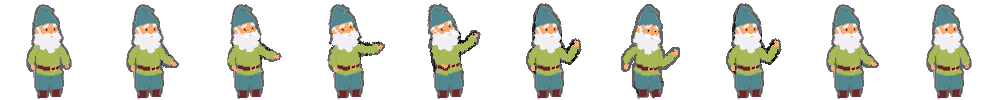
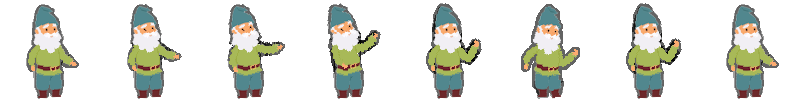
Collector. fall image with armor instead of weapon in air

diff --git a/src/gameApp/units/Unit.ts b/src/gameApp/units/Unit.ts
@@ -71,6 +71,7 @@ export class Unit extends UpgradebleObject {
 	protected readonly _runArmorAnimation: AnimationInfinite; //для апгрейда брони - анимация бега
 	protected readonly _joyArmorAnimation: Animation; //для апгрейда брони - анимация радости после завершения волны
 	protected readonly _attackArmorAnimation: AnimationInfinite; //для апгрейда брони - анимация атаки
+	protected readonly _fallArmorImage: HTMLImageElement;
 
 	static readonly heartImage: HTMLImageElement = new Image(); //картинка для анимации лечения
 	static readonly healingAnimationDurationMs: number = 1200; //продолжительность анимации лечения (миллисекунды)
@@ -93,7 +94,7 @@ export class Unit extends UpgradebleObject {
 	protected _attackLeftTimeMs: number; //оставшееся время до следующей атаки (миллисекунды)
 	protected _goal: AttackedObject|null; //цель (монстр) для атаки
 
-	protected imageWeapon: HTMLImageElement; //изображение оружия
+	protected imageWeapon: HTMLImageElement|ImageBitmap; //изображение оружия
 	protected _isDisplayWeaponInAir: boolean; //отображать оружие крутящуюся в воздухе?
 	protected _isDisplayWeaponInEarch: boolean; //отображать оружие воткнутую в землю?
 	protected _weaponRotateInAir: number; //угол вращения оружие в воздухе
@@ -176,6 +177,7 @@ export class Unit extends UpgradebleObject {
 		this._activeWaitingArmorAnimation = new AnimationInfinite(activeWaitingAnimation.frames, activeWaitingAnimation.durationMs); 
 		this._runArmorAnimation = new AnimationInfinite(runAnimation.frames, runAnimation.durationMs);
 		this._joyArmorAnimation = new Animation(joyAnimation.frames, joyAnimation.durationMs); 
+		this._fallArmorImage = new Image();
 
 
 		this._goal = null;
@@ -535,6 +537,7 @@ export class Unit extends UpgradebleObject {
 	{
 		if(this._isFall){
 			super.drawObject(drawsDiffMs, this._fallImage, isGameOver, invertSign, x, y, filter, isInvertAnimation);
+			super.drawObject(drawsDiffMs, this._fallArmorImage, isGameOver, invertSign, x, y, filter, isInvertAnimation);
 		}
 		else if(this._fallEndAnimation.leftTimeMs > 0){
 			super.drawObject(drawsDiffMs, this._fallEndAnimation, isGameOver, invertSign, x, y, filter, isInvertAnimation);

diff --git a/src/gameApp/units/Collector.ts b/src/gameApp/units/Collector.ts
@@ -54,6 +54,7 @@ import CollectorDefenseStartWoodArmorImage from '../../assets/img/units/collecto
 import CollectorPassiveWait1WoodArmorImage from '../../assets/img/units/collector/woodArmor/passiveWaiting.png'; 
 import CollectorRunWoodArmorImage from '../../assets/img/units/collector/woodArmor/run.png'; 
 import CollectorJoyWoodArmorImage from '../../assets/img/units/collector/woodArmor/joy.png'; 
+import CollectorFallWoodArmorImage from '../../assets/img/units/collector/woodArmor/fall.png'; 
 
 
 import CollectorFallEndWoodArmorImage from '../../assets/img/units/collector/woodArmor/passiveWaiting.png'; 
@@ -128,7 +129,7 @@ export class Collector extends Unit{
 			new Animation(6, 6 * 350, Collector.passiveWaitingImage), 			//startActiveWaitingAnimation
 			new AnimationInfinite(6, 6 * 350, Collector.passiveWaitingImage), 	//activeWaitingAnimation
 			new AnimationInfinite(4, 4 * 200, Collector.runImage),  		    //run animation
-			new Animation(10, 10 * 100, Collector.joyImage),  				    //joy animation
+			new Animation(8, 8 * 100, Collector.joyImage),  				    //joy animation
 			0, //rotateWeaponInEarch
 			Collector.name, 
 			Collector.imageHandler, 
@@ -225,6 +226,7 @@ export class Collector extends Unit{
 		this._fallEndArmorAnimation.image.src = CollectorFallEndWoodArmorImage;
 		this._runArmorAnimation.image.src = CollectorRunWoodArmorImage;
 		this._joyArmorAnimation.image.src = CollectorJoyWoodArmorImage;
+		this._fallArmorImage.src = CollectorFallWoodArmorImage;
 	}
 
 	improveSpeed(){
@@ -501,7 +503,15 @@ export class Collector extends Unit{
 
 			if(this.health <= 0){
 				if(damage >= this.healthMax){
-					this.imageWeapon = Collector.fallImage;
+					let offCanvas = new OffscreenCanvas(Collector.fallImage.width, Collector.fallImage.height);
+					let offContext = offCanvas.getContext('2d');
+					if(offContext){
+						offContext.drawImage(this._fallImage, 0, 0, Collector.fallImage.width, Collector.fallImage.height);
+						offContext.drawImage(this._fallArmorImage, 0, 0, Collector.fallImage.width, Collector.fallImage.height);
+					}
+					let imageBitmap = offCanvas.transferToImageBitmap();
+
+					this.imageWeapon = imageBitmap;
 					this._weaponRotateInAir = 0;
 				}
 				else{

diff --git a/src/models/AttackedObject.ts b/src/models/AttackedObject.ts
@@ -246,12 +246,15 @@ export class AttackedObject {
 		this.modifiers.forEach(modifier => modifier.drawAheadObjects(this, drawsDiffMs));
 	}
 
-	drawObject(drawsDiffMs: number, imageOrAnimation: AnimationInfinite|Animation|HTMLImageElement, 
+	drawObject(drawsDiffMs: number, imageOrAnimation: AnimationInfinite|Animation|HTMLImageElement|ImageBitmap, 
 		isGameOver: boolean, invertSign: number = 1, x: number|null = null, y: number|null = null, filter: string|null = null,
 		isInvertAnimation: boolean = false){
 		x = x ?? this.x;
 		y = y ?? this.y;
-		if(imageOrAnimation instanceof HTMLImageElement){
+		if(imageOrAnimation instanceof ImageBitmap){ //without filter (ImageBitmap doesn't have any specific parameters as name, src, path, size....)
+			Draw.ctx.drawImage(imageOrAnimation, invertSign * x, y, invertSign * this.width, this.height);
+		}
+		else if(imageOrAnimation instanceof HTMLImageElement){
 			let image = Draw.getFilteredImage(filter, imageOrAnimation, this.width, this.height);
 			Draw.ctx.drawImage(image, invertSign * x, y, invertSign * this.width, this.height);
 		}

diff --git a/src/reactApp/pages/Test/TestPage.tsx b/src/reactApp/pages/Test/TestPage.tsx
@@ -2306,6 +2306,7 @@ class TestPage extends React.Component {
             code: () => {
                 App.Store.dispatch(MenuStore.actionCreators.startGame());
                 Game.startNew();
+                Gamer.coins = 1500;
                 WawesState.delayEndLeftTimeMs = WawesState.delayStartLeftTimeMs = 0;
                 Waves.all = [
                     [ //1-я волна
@@ -2325,6 +2326,7 @@ class TestPage extends React.Component {
                     var y = Draw.canvas.height - Game.bottomShiftBorder - Collector.imageHeight - 75;
                     var collector1 = new Collector(Buildings.flyEarth.centerX - 250, y);
                     collector1.loadedResourcesAfterBuild();
+                    collector1.improveToWoodArmor();
                     Units.all.push(collector1);
                 }, 300);
             }
